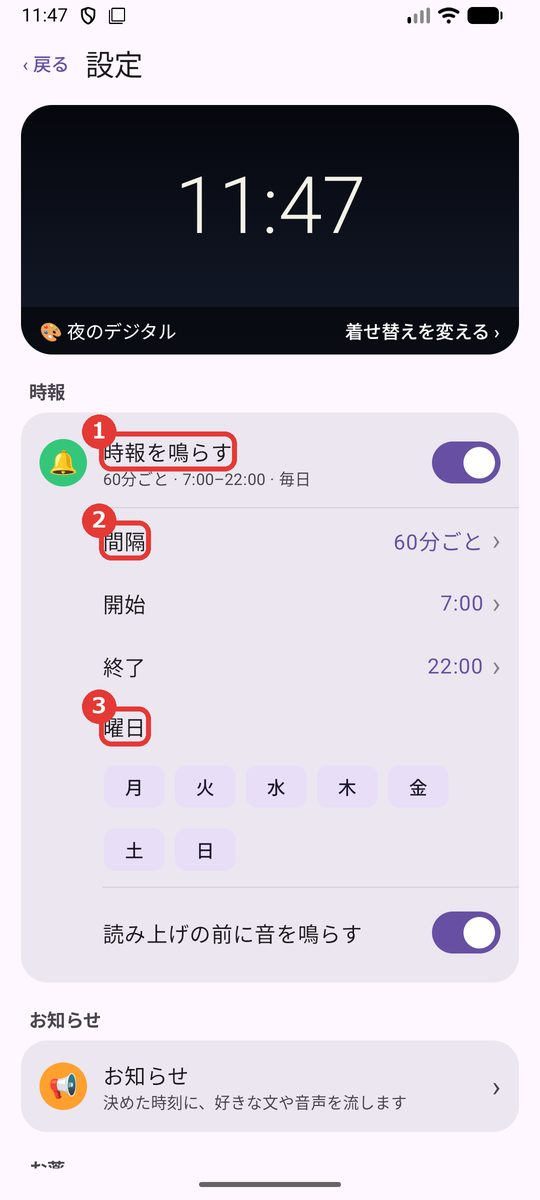
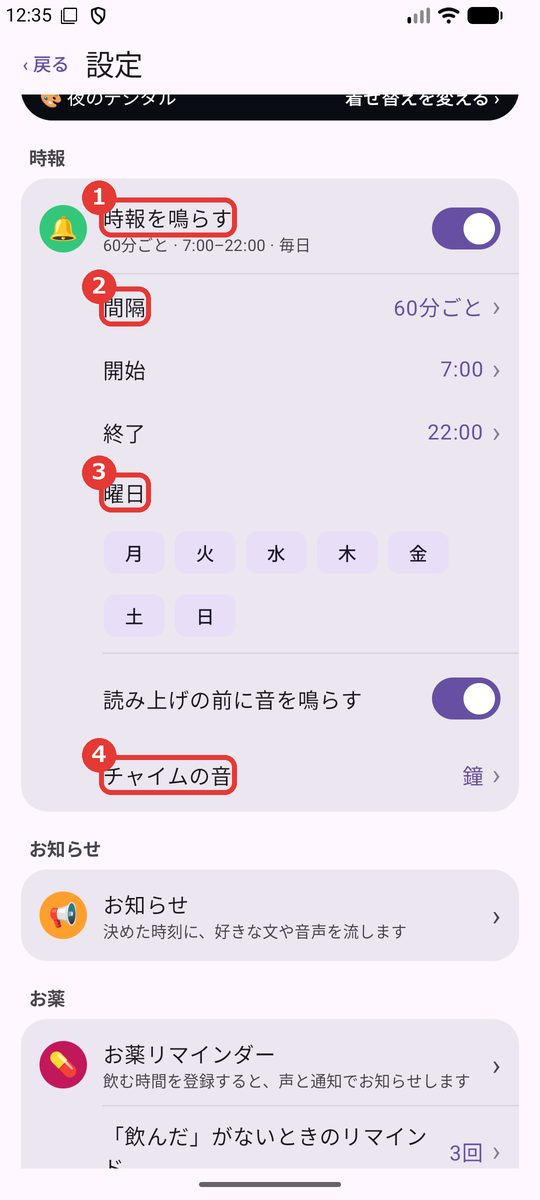
しゃべる時計の使い方のページに、チャイムの音の選び方を足す
- 時報の説明にチャイムの音の行と、音を選ぶ窓の画像・手順を足した
- 時報の設定の画像を撮り直した（チャイムの音の行に印）

diff --git a/talking-clock/manual.html b/talking-clock/manual.html
@@ -11,7 +11,7 @@
 <p><a href="./">しゃべる時計 の紹介ページへ戻る</a></p>
 <h1>しゃべる時計 の使い方</h1>
 <p>しゃべる時計（Talking Clock）は、時刻を声で知らせる時計のアプリです。決めた時刻のお知らせや、お薬を飲む時間のリマインダーも声で読み上げます。</p>
-<p class="note">この説明は バージョン 0.1.0 の画面に合わせています（2026年11月24日）。画面はこれから変わることがあります。画像の赤い枠と番号は、説明の番号と同じところです。</p>
+<p class="note">この説明は バージョン 0.1.0 の画面に合わせています（2026年11月24日、チャイムの音を追加）。画面はこれから変わることがあります。画像の赤い枠と番号は、説明の番号と同じところです。</p>
 
 <ol class="toc">
 <li><a href="#start">はじめに</a></li>
@@ -50,11 +50,18 @@
 <li><strong>「時報を鳴らす」</strong>：ON にすると、決めた間隔で時刻を読みます</li>
 <li><strong>「間隔」</strong>：1 分〜12 時間から選びます。「開始」「終了」で鳴らす時間帯を決めます（夜をまたいでもかまいません）</li>
 <li><strong>「曜日」</strong>：鳴らす曜日を押して選びます</li>
+<li><strong>「チャイムの音」</strong>：読み上げの前に鳴らす音を選びます（下の画像）</li>
 </ol>
 <ul>
-<li>「読み上げの前に音を鳴らす」が ON なら、読む前に「ピン・ポーン」と鳴ります</li>
+<li>「読み上げの前に音を鳴らす」が ON なら、読む前にチャイムが鳴ります。お薬の時間の前にも同じ音が鳴ります</li>
 <li>時刻は「3時ちょうどです」「3時半です」のように読みます</li>
 </ul>
+<h3>チャイムの音を選ぶ</h3>
+<img class="shot" src="images/manual/chime-sound.jpg" width="540" height="1200" loading="lazy" alt="チャイムの音を選ぶ窓">
+<ol>
+<li>音を押すと、すぐその音が鳴ります。ピン・ポーン・ピンポンパンポーン・鐘・木琴・学校のチャイム・オルゴール・電子音から選べます</li>
+<li>気に入った音を選んだら「OK」を押します</li>
+</ol>
 
 <h2 id="announce">4. お知らせを作る</h2>
 <p>決めた時刻に、好きな文を読み上げたり、音声ファイルを流したりできます。設定の「お知らせ」を押して開きます。</p>
